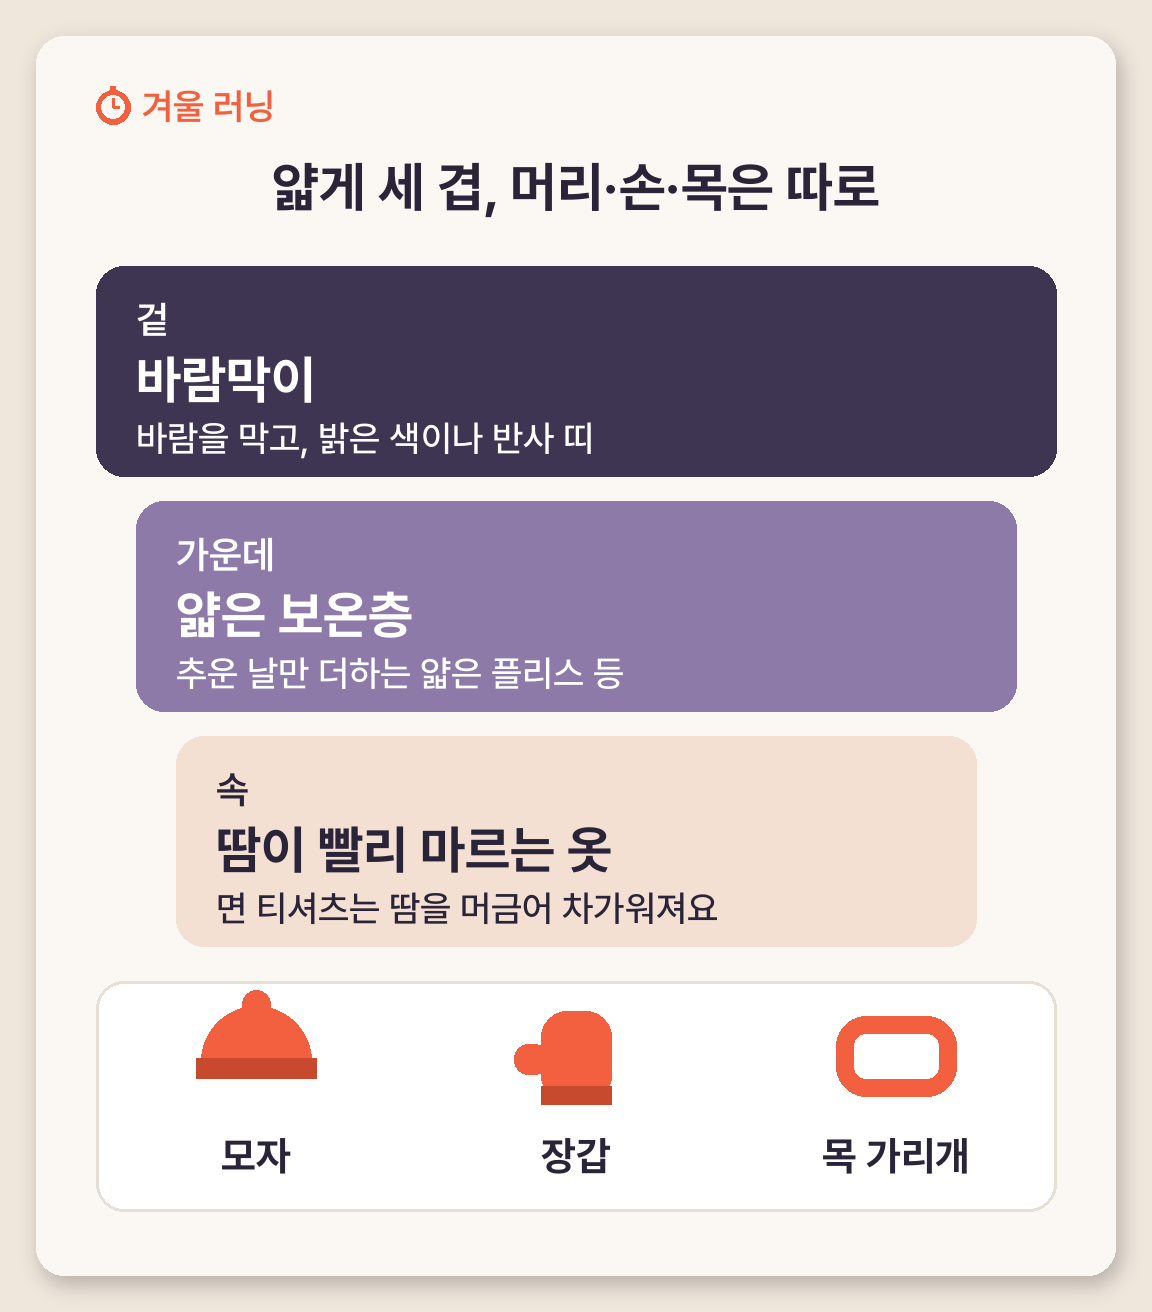
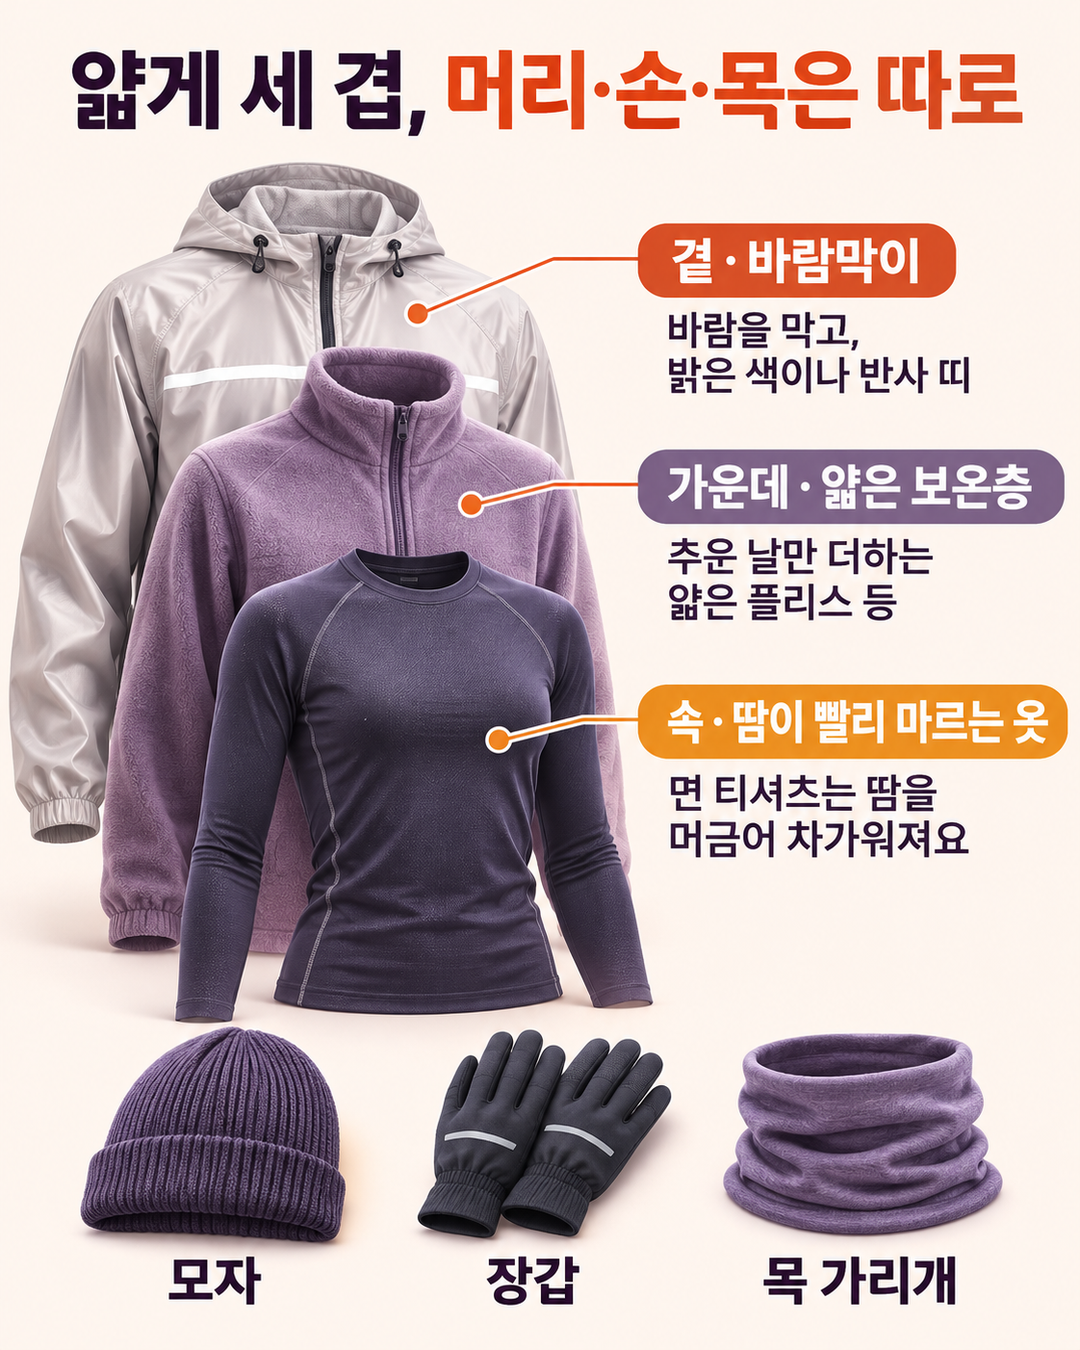
네이버 「겨울 러닝」 그림 02를 ChatGPT 그림으로 교체, 03·04 다시 요청

diff --git a/문서/네이버-코딩가이드/20261128_겨울-러닝/index.html b/문서/네이버-코딩가이드/20261128_겨울-러닝/index.html
@@ -13,10 +13,10 @@
 [이미지 순서]
 디자인: 새벽 러닝 느낌 — 따뜻한 미색 바탕(#fbf7f2)·짙은 보라 남색 글자(#2a2438)·코랄(#f2603f)·민트(#22a37f)·하늘(#4a78c8)·연보라(#8d7aa8), Pretendard. 왼쪽 위 스톱워치 아이콘 + '겨울 러닝'(번호 없음). h3 기호 ▶, 강조색은 '이런 날은 쉬어 가기' 한 곳(코랄).
 - 01-타이틀.png (ChatGPT 실사풍, 1:1) — 사용자 요청으로 ChatGPT 타이틀로 교체(해 뜨기 전 서리 낀 공원 트랙과 뒷모습 러너, 글자 정확, 가장 넓은 줄 약 81%·세로 중심 약 49%, 로고·얼굴 없음, 1254 → 1080px. 원본은 자료실/제작-이미지).
-- 02-옷-겹쳐-입기.png (AI, 세로 1152×1312, 둥근 카드) — 겉(바람막이)·가운데(얇은 보온층)·속(땀이 빨리 마르는 옷) 세 겹과 모자·장갑·목 가리개.
+- 02-옷-겹쳐-입기.png (ChatGPT 에디토리얼 인포그래픽, 세로 1080×1350, 2026-11-28 교체: 바람막이·플리스·기능성 속옷 세 겹과 모자·장갑·목 가리개, 글자 정확, 로고·얼굴 없음, 1122×1402 → 1080×1350, 원본 scratchpad/backup/run-02-original.png. 앞 AI 버전은 세로 1152×1312 둥근 카드) — 겉(바람막이)·가운데(얇은 보온층)·속(땀이 빨리 마르는 옷) 세 겹과 모자·장갑·목 가리개.
 - 03-살짝-춥게-입기.png (AI, 1116×1036, 둥근 점선) — 실제 0℃ 아침이면 8~11℃ 날의 옷처럼 입는다는 것을 온도계 두 개로.
 - 04-달리기-전후-순서.png (AI, 세로 1096×1300, 왼쪽 띠) — 나가기 전·실내 준비운동·달리는 중·끝나자마자 네 단계.
-- 2026-11-28 사용자 요청으로 02·03·04도 ChatGPT 에디토리얼 인포그래픽(02 세로 1080×1350, 03 가로 1620×1080, 04 세로 1080×1350, 글자는 AI 버전과 같게, 03은 '공식 기준이 아닌 예시' 줄 추가)으로 요청함. 받기 전까지 AI 버전이 자리를 지킴(AI 버전 백업 scratchpad/backup/run-02·03·04-…-ai.png).
+- 2026-11-28 사용자 요청으로 02·03·04도 ChatGPT 에디토리얼 인포그래픽(02 세로 1080×1350, 03 가로 1620×1080, 04 세로 1080×1350, 글자는 AI 버전과 같게, 03은 '공식 기준이 아닌 예시' 줄 추가)으로 요청함. 02는 받아 적용. 03·04는 처음 받은 그림 세 장이 두 그림을 한 장에 합쳤고, 03을 '0℃ 날 세 겹 vs 8~11℃ 날 두 겹'으로 그려 글 뜻과 반대였으며, 요청에 없는 글자('10~15분' 등)와 사람 얼굴이 있어 쓰지 않고 다시 요청함(받은 세 장은 자료실에 둠). 받기 전까지 AI 버전이 자리를 지킴(AI 버전 백업 scratchpad/backup/run-02·03·04-…-ai.png).
 - 05-함께-보면-좋은-글.png (AI 배너, 1600×234)
 - ChatGPT 요청은 타이틀 1장만(사용자 요청, 폰글 예외).
 

diff --git a/이미지요청-글.md b/이미지요청-글.md
@@ -23,22 +23,8 @@
 
 ## [네이버] 겨울 러닝, 몇 도까지 괜찮을까? — 문서/네이버-코딩가이드/20261128_겨울-러닝
 
-### 02-옷-겹쳐-입기.png (본문 인포그래픽, 세로 4:5, 1080×1350)
-- 종류: 세련된 에디토리얼 인포그래픽(반실사 3D 일러스트). 독자는 성인 — 내용은 쉽게, 표현은 세련되게. 귀여운 캐릭터·말풍선·반짝이·장난감 같은 3D·굵은 테두리 만화 글씨 금지.
-- 장면: 가운데에 러닝용 옷 세 겹을 위에서 아래로(또는 앞에서 뒤로) 살짝 펼쳐 겹쳐 놓은 모습. 바깥부터 ① 밝은 색 얇은 바람막이(반사 띠 한 줄), ② 얇은 플리스 보온층, ③ 몸에 붙는 얇은 기능성 긴팔 속옷. 옷 세 겹이 화면의 60~70%를 차지하도록 크게. 아래쪽에 비니 모자·러닝 장갑·넥워머 세 소품을 나란히 작게.
-- 넣을 글자(적힌 그대로, 이것만):
-  - 제목(맨 위 가운데): 얇게 세 겹, 머리·손·목은 따로
-  - 바람막이 옆 이름표: 겉 · 바람막이 / 설명: 바람을 막고, 밝은 색이나 반사 띠
-  - 플리스 옆 이름표: 가운데 · 얇은 보온층 / 설명: 추운 날만 더하는 얇은 플리스 등
-  - 속옷 옆 이름표: 속 · 땀이 빨리 마르는 옷 / 설명: 면 티셔츠는 땀을 머금어 차가워져요
-  - 소품 아래 이름: 모자 / 장갑 / 목 가리개
-- 글자 크기(가로 1080px 기준, 이보다 크게 하지 말 것): 제목 40~44px, 이름표 28~32px, 설명 24~26px, 소품 이름 24~26px. 굵은 글씨는 제목과 이름표에만.
-- 여백·간격: 네 변 가장자리 5~7% 안쪽만 비우기(제목도 가장자리에 붙이지 않기). 제목 위 여백과 맨 아래 글 아래 여백은 각각 75~80px 이상, 제목–그림 사이 55~60px 이상. 간격이 그림 크기보다 우선(모자라면 그림을 줄일 것). 이름표와 설명은 화면 높이 전체에 고르게 퍼지게 배치해 한쪽이 휑하게 비지 않게. 너무 빡빡하지도, 너무 비지도 않게.
-- 색: 따뜻한 미색 바탕(#fbf7f2), 글자는 짙은 보라 남색(#2a2438), 포인트 코랄(#f2603f)·연보라(#8d7aa8)·살구. 단정한 고딕체.
-- 금지: 상표·로고·브랜드 글자, 사람 얼굴(마네킹·사람 없이 옷만), 테두리(액자), 적은 것 외의 요소·문장.
-- 이 그림이 알려 주는 것: 두꺼운 옷 한 벌 대신 얇은 옷 세 겹이 각각 무슨 역할을 하는지, 머리·손·목은 따로 가린다는 것을 한눈에.
-
 ### 03-살짝-춥게-입기.png (본문 인포그래픽, 가로 3:2, 1620×1080)
+- **다시 요청(2026-11-28)**: 앞서 받은 그림은 03과 04를 한 장에 합쳐 그렸고, 03을 '0℃ 날은 세 겹, 8~11℃ 날은 두 겹'처럼 **서로 다른 두 날씨**로 그려 이 글의 뜻과 반대였습니다. 이 그림의 뜻은 '**같은 0℃ 아침에, 옷은 8~11℃ 날처럼 조금 가볍게 고른다**'입니다(날이 두 개가 아님). 이 항목 하나만 한 장으로 그리고, 04와 합치지 마세요. 사람(얼굴)을 넣지 말고 온도계와 옷만 그리세요.
 - 종류: 세련된 에디토리얼 인포그래픽(반실사 3D 일러스트). 독자는 성인 — 내용은 쉽게, 표현은 세련되게. 귀여운 캐릭터·말풍선·반짝이·장난감 같은 3D·굵은 테두리 만화 글씨 금지.
 - 장면: 왼쪽에 서리 낀 새벽 현관 앞 유리 온도계(눈금이 0℃, 파란 액체), 오른쪽에 같은 모양 온도계(눈금이 8~11℃ 구간, 코랄 액체)와 그 옆에 얇은 러닝 긴팔과 바람막이 한 벌. 가운데에 왼쪽에서 오른쪽으로 가는 가는 화살표. 온도계 두 개와 옷이 화면의 60~70%를 차지하게.
 - 넣을 글자(적힌 그대로, 이것만):
@@ -54,6 +40,7 @@
 - 이 그림이 알려 주는 것: 달리면 몸이 데워지니 출발할 때는 실제 기온보다 따뜻한 날의 옷차림을 참고한다는 것(공식 기준이 아니라 예시라는 점까지).
 
 ### 04-달리기-전후-순서.png (본문 인포그래픽, 세로 4:5, 1080×1350)
+- **다시 요청(2026-11-28)**: 앞서 받은 그림은 03과 합쳐 한 장에 그렸고, 요청에 없는 글자('10~15분', '따뜻한 음료', '정리 스트레칭' 등)와 사람 얼굴이 들어갔습니다. 이 항목 하나만 한 장(세로 1080×1350)으로 그리고, 아래 '넣을 글자'만 적힌 그대로 쓰세요. 얼굴이 보이는 사람은 넣지 말고 손·다리·뒷모습만 쓰세요.
 - 종류: 세련된 에디토리얼 인포그래픽(반실사 3D 일러스트). 독자는 성인 — 내용은 쉽게, 표현은 세련되게. 귀여운 캐릭터·말풍선·반짝이·장난감 같은 3D·굵은 테두리 만화 글씨 금지.
 - 장면: 위에서 아래로 이어지는 네 단계 길(얇은 선으로 이어진 네 칸). 칸마다 작은 장면 그림 하나:
   ① 현관 안에서 휴대폰 날씨 화면을 보는 손(화면 글자는 흐리게)

diff --git a/AGENTS.md b/AGENTS.md
@@ -288,7 +288,7 @@
   - 같은 날 사용자 요청으로 h3 '배터리 숫자가 뚝 떨어졌다 다시 오르는 이유' 추가(공백 포함 1,807자): 퍼센트는 전류·전압으로 어림한 값(Battery University BU-903), 추위에 줄어든 용량은 실온에서 회복(BU-502). 표시가 다시 오르는 현상은 제조사 공식 문장이 없어 '알려져 있다'로. 이어서 사용자 요청으로 01 타이틀을 ChatGPT 그림('겨울 폰 배터리 / 왜 빨리 닳을까?', 눈 오는 정류장·장갑 낀 손·빈 배터리 화면)으로 바꿈(폰글 규칙의 예외, 사용자 요청).
 
 - (2026-11-28 진행 상황 이어서) 네이버 「블랙아이스, 왜 안 보일까? 잘 생기는 곳과 운전·보행 요령」 작성(폰글 두 번째, 생활 정보, 이미지 5장 AI 제작, 그림 스크립트 `도구/폰글이미지_블랙아이스.py`, 폴더 `문서/네이버-코딩가이드/20261128_블랙아이스`).
-- (2026-11-28 진행 상황 이어서) 네이버 「겨울 러닝, 몇 도까지 괜찮을까? 옷차림부터 쉬어야 할 날까지」 작성(폰글 세 번째, 여행·취미·문화, 이미지 5장 AI 제작, 그림 스크립트 `도구/폰글이미지_겨울러닝.py`, 폴더 `문서/네이버-코딩가이드/20261128_겨울-러닝`). 같은 날 사용자 요청으로 01 타이틀을 ChatGPT 그림으로 바꿨고, 02 옷 겹쳐 입기·03 살짝 춥게 입기·04 달리기 전후 순서도 ChatGPT 인포그래픽으로 요청함(받기 전까지 AI 버전이 자리를 지킴).
+- (2026-11-28 진행 상황 이어서) 네이버 「겨울 러닝, 몇 도까지 괜찮을까? 옷차림부터 쉬어야 할 날까지」 작성(폰글 세 번째, 여행·취미·문화, 이미지 5장 AI 제작, 그림 스크립트 `도구/폰글이미지_겨울러닝.py`, 폴더 `문서/네이버-코딩가이드/20261128_겨울-러닝`). 같은 날 사용자 요청으로 01 타이틀을 ChatGPT 그림으로 바꿨고, 02 옷 겹쳐 입기·03 살짝 춥게 입기·04 달리기 전후 순서도 ChatGPT 인포그래픽으로 요청함(받기 전까지 AI 버전이 자리를 지킴). 02는 받아 적용. 03·04는 처음 받은 그림이 두 그림을 한 장에 합쳤고, 03을 '0℃ 날 세 겹 vs 8~11℃ 날 두 겹'처럼 서로 다른 두 날씨로 그려 글 뜻(같은 0℃ 아침에 8~11℃ 날 옷처럼 입기)과 반대여서 다시 요청함. **여러 항목을 한꺼번에 요청하면 ChatGPT가 한 장에 합쳐 그릴 수 있으니, 받은 뒤 항목이 섞이지 않았는지와 그림의 뜻이 글과 같은지 확인한다.**
 
 ## 진행 상황 (2026-11-27 기준)
 - 2026-11-27: `문서/네이버-코딩가이드/20261127_19개/20261127_뉴욕-LOS-TACOS-NO1/index.html` 작성("뉴욕 타코 맛집 LOS TACOS No.1, 주문하는 법과 메뉴", 카테고리 여행·취미·문화, 공백 포함 2,014자). 사용자 사진(`자료실/사진자료/뉴욕-LOS TACOS NO1/`, 2026.5.11 18시 무렵)으로 쓴 맛집 글. 사용자 확인: 지점 229 W 43rd St(타임스스퀘어점), 주문 메뉴는 기억 안 남, 서서 먹고 사람 많아 정신없음, 줄은 좀 기다림.
